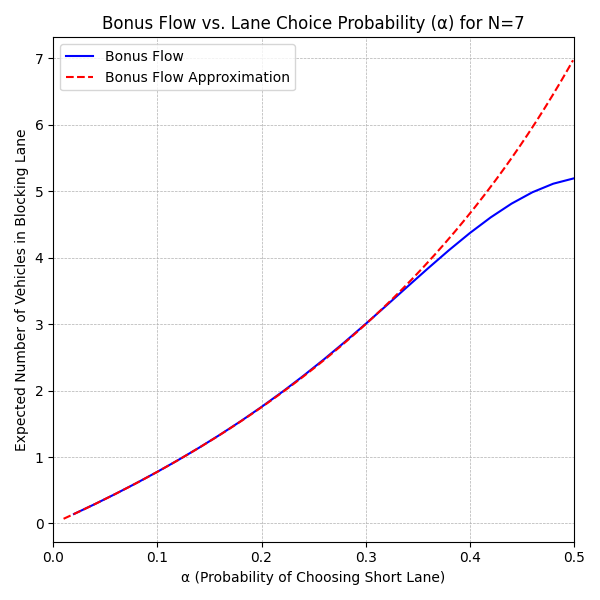
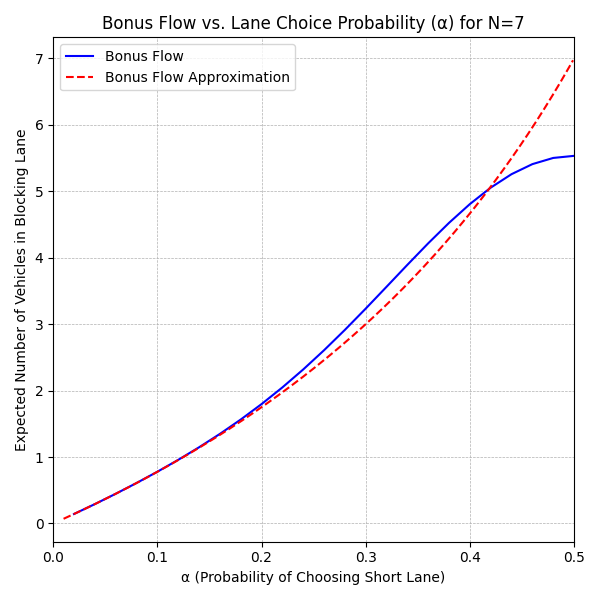
update scripts and add plots

diff --git a/simulation-queuing-theory.py b/simulation-queuing-theory.py
@@ -373,7 +373,7 @@ for alpha in alphas:
     p_through = 1 - alpha
 
     # Expected queue in short lane when through lane blocks
-    weighted_expected = sum(k * (nbinom.pmf(k, N+1, p_short)+nbinom.pmf(k, N, p_through)) for k in range(max_k + 1))
+    weighted_expected = sum(k * (nbinom.pmf(k, N, p_short)+nbinom.pmf(k, N, p_through)) for k in range(max_k + 1))
 
     expected_blocking_queues.append(weighted_expected)
 
